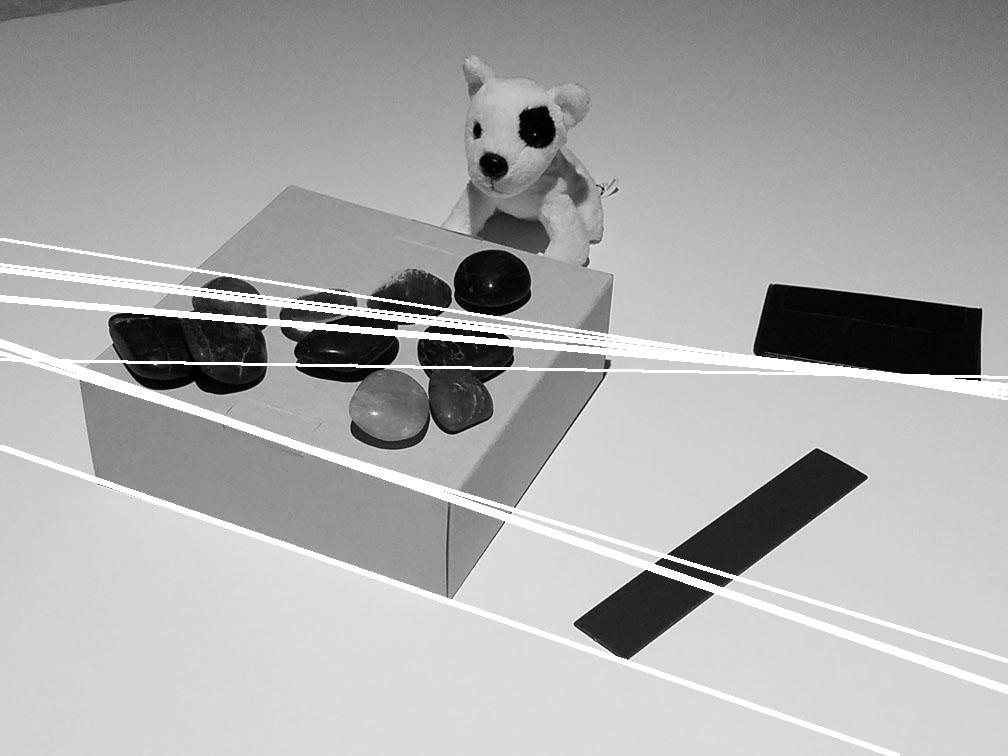
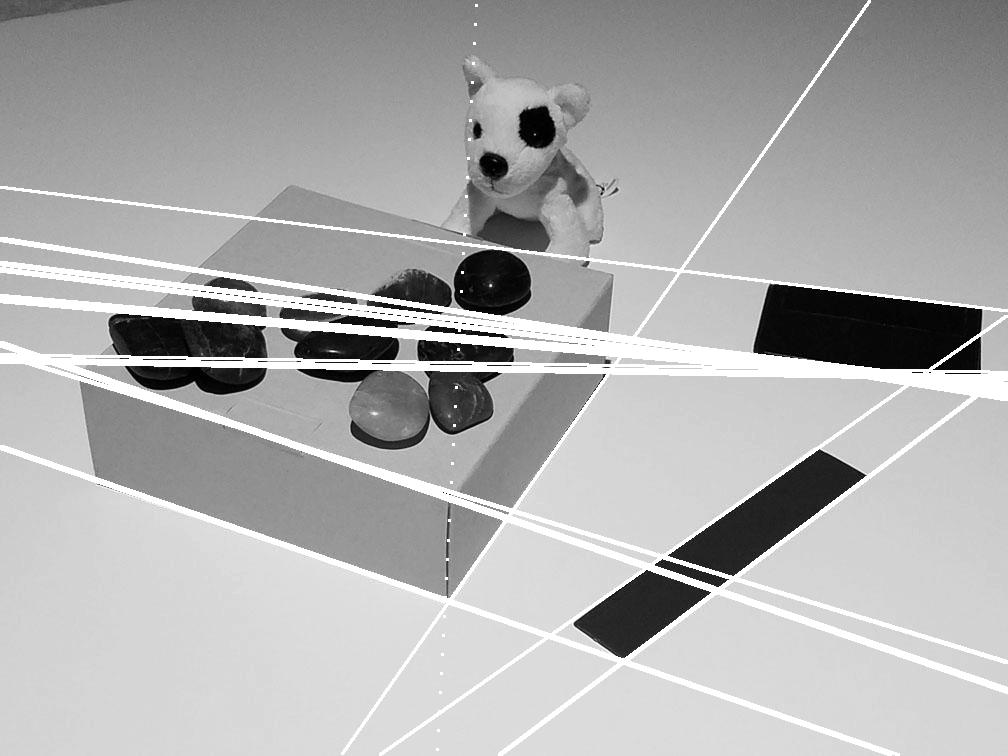
update

diff --git a/src/ImageProcessor.java b/src/ImageProcessor.java
@@ -10,13 +10,28 @@ import java.util.List;
  * project: ParallelogramDetection
  *
  * @author YubaiTao on 29/10/2017.
+ *
+ *
  */
 public class ImageProcessor {
+    /* ---- Fields ---- */
+
     private String id;
     private int[][] image;
     private int[][] grayImage;
     private int width;
     private int height;
+
+    /* for non-maximum suppression */
+    private int[][] matrixGx;
+    private int[][] matrixGy;
+    // NOTICE:
+    //     This is calculated in x-y coordinate system
+    //     theta(gradient angle) = arctan(Gy / Gx)
+    // which x increasing "right"-direction; y increasing "down"-direction
+    private double[][] matrixGAngle;
+    private int[][] nmsImage;
+
     /* for hough transform */
     private int thetaStrides;
     private int pStrides;
@@ -25,11 +40,18 @@ public class ImageProcessor {
     private double cosArray[];
     private int[][] houghTable;
 
+    /* ----  Constructor ---- */
     public ImageProcessor(int[][] matrix, String id, int thetaStrides, int pStrides) {
         this.id = id;
         this.image = matrix;
         this.width = matrix[0].length;
         this.height = matrix.length;
+
+        this.matrixGx = new int[height][width];
+        this.matrixGy = new int[height][width];
+        this.matrixGAngle = new double[height][width];
+        this.nmsImage = new int[height][width];
+
         this.thetaStrides = thetaStrides;
         this.pStrides = pStrides;
         sinArray = new double[this.thetaStrides];
@@ -38,18 +60,20 @@ public class ImageProcessor {
         grayImage = image.clone();
     }
 
+    /* --------------------- public methods ----------------------- */
+
     public void Sobel() {
         int threshold = 30;
         /* sobel operators */
         int[][] sobelX = {
-                {-1, 0, 1},
-                {-2, 0, 2},
-                {-1, 0, 1}
+                {1, 0, -1},
+                {2, 0, -2},
+                {1, 0, -1}
         };
         int[][] sobelY = {
-                {-1, -2, -1},
+                {1, 2, 1},
                 {0, 0, 0},
-                {1, 2, 1}
+                {-1, -2, -1}
         };
 
         int[][] result = new int[height][width];
@@ -64,15 +88,28 @@ public class ImageProcessor {
                         image[i][j - 1] * sobelY[1][0] + image[i][j] * sobelY[1][1] + image[i][j + 1] * sobelY[1][2] +
                         image[i + 1][j - 1] * sobelY[2][0] + image[i][j + 1] * sobelY[2][1] + image[i + 1][j + 1] * sobelY[2][2];
 
+                matrixGx[i][j] = x;
+                matrixGy[i][j] = y;
+
                 int mag = (int) Math.sqrt(x * x + y * y);
                 result[i][j] = mag;
 
-//                if (result[i][j] < 0) {
+                if (result[i][j] > 255) {
+                    result[i][j] = 255;
+                }
+                // swap white and black
+                result[i][j] = 255 - result[i][j];
+
+                if (result[i][j] > 255 - threshold) {
+                    result[i][j] = 255;
+                }
+
+                /*
                 if (result[i][j] < threshold) {
                     result[i][j] = 255;
                 } else {
                     result[i][j] = 0;
-                }
+                } */
 
             }
         }
@@ -92,6 +129,36 @@ public class ImageProcessor {
         drawImage(result, output);
 
         image = result.clone();
+        nmsImage = result.clone();
+    }
+
+    /* non-maximum suppression implementation */
+    public void NMS() {
+        // int[][] matrixSector = new int[height][width];
+        // nmsImage = image.clone();
+
+        for (int i = 0; i < height; i++) {
+            for (int j = 0; j < width; j++) {
+                if (image[i][j] != 255) {
+                    // atan2(double y, double x)
+                    // y - the ordinate coordinate ("up" direction)
+                    // x - the abscissa coordinate ("right" direction)
+                    // so y need to convert the sign
+                    // return value is radian form, [-pi, pi]
+                    matrixGAngle[i][j] = Math.atan2(-matrixGy[i][j], matrixGx[i][j]);
+                    int secNum = matchSector(matrixGAngle[i][j]);
+                    if (!isValidEdge(secNum, i, j)) {
+                        nmsImage[i][j] = 255;
+                    }
+                }
+            }
+        }
+
+        image = nmsImage.clone();
+
+        String output = "./OutputImages/" + id + "_nms.jpg";
+        drawImage(nmsImage, output);
+
     }
 
 
@@ -100,9 +167,67 @@ public class ImageProcessor {
         List<Line> lineList = extractLines();
         drawLines(lineList, grayImage, "./OutputImages/" + id +"_Lines.jpg");
 
-        System.out.println("Yahoooooo!");
+        System.out.println("Hough Transform end for " + id + ".");
     }
 
+
+
+
+
+    /* --------------------- private methods ----------------------- */
+
+    /* ---- For NMS() ---- */
+    private int matchSector(double angle) {
+        // angle - > [-PI, PI]
+        int sectorNum = -1;
+        if (angle < 0) {
+            // cast to [0, 2*PI]
+            angle += 2*Math.PI;
+        }
+        int div = (int)(angle / (Math.PI / 8));
+        switch (div) {
+            case 0: case 7:
+            case 8: case 15: case 16:
+                sectorNum = 0;
+                break;
+            case 1: case 2:
+            case 9: case 10:
+                sectorNum = 1;
+                break;
+            case 3: case 4:
+            case 11: case 12:
+                sectorNum = 2;
+                break;
+            case 5: case 6:
+            case 13: case 14:
+                sectorNum = 3;
+                break;
+            default:
+                break;
+        }
+
+        return sectorNum;
+    }
+
+    /* judge whether a point should be suppressed */
+    private boolean isValidEdge(int secNum, int i, int j) {
+        // System.out.println("sec num in valid edge: " + secNum);
+        switch (secNum) {
+            case 0:
+                return (image[i][j] <= image[i][j - 1] && image[i][j] <= image[i][j + 1]);
+            case 1:
+                return (image[i][j] <= image[i + 1][j - 1] && image[i][j] <= image[i - 1][j + 1]);
+            case 2:
+                return (image[i][j] <= image[i - 1][j] && image[i][j] <= image[i + 1][j]);
+            case 3:
+                return (image[i][j] <= image[i - 1][j - 1] && image[i][j] <= image[i + 1][j + 1]);
+            case 4:
+                return true;
+        }
+        return false;
+    }
+
+    /* ---- For houghTransform ---- */
 
     /*
         i-j coordinate system.
@@ -121,8 +246,6 @@ public class ImageProcessor {
             sinArray[i] = Math.sin(curTheta);
             cosArray[i] = Math.cos(curTheta);
         }
-
-
 
 
         int pointCount = 0;
@@ -157,7 +280,7 @@ public class ImageProcessor {
 
 
     private List<Line> extractLines() {
-        int k = 20;
+        int k = 30;
         int accumulatorThreshold = 0;
         int maxValue = 0;
 
@@ -200,16 +323,21 @@ public class ImageProcessor {
         }
 
         for (Line l : lineList) {
-            System.out.print(" ****** " + l.pIndex + " " + l.thetaIndex);
+            // System.out.print(" ****** " + l.pIndex + " " + l.thetaIndex);
         }
-        System.out.println();
+        // System.out.println();
 
         return lineList;
     }
 
+
+
+    /* ---- draw functions ---- */
+
+
     private void drawLines(List<Line> lineList, int[][] m, String path) {
 
-        System.out.println("Line list length : " + lineList.size());
+        // System.out.println("Line list length : " + lineList.size());
         for (Line l : lineList) {
             drawLine(l, m);
         }
@@ -227,8 +355,8 @@ public class ImageProcessor {
         double p = pStride / 2 + pIndex * pStride;
         double theta = thetaStride / 2 + thetaIndex * thetaStride;
 
-        System.out.println("Theta : " + theta);
-        System.out.println("P : " + p);
+//        System.out.println("Theta : " + theta);
+//        System.out.println("P : " + p);
 
         /*
             p = i * cos(theta) + j * sin(theta)
@@ -284,6 +412,9 @@ public class ImageProcessor {
     }
 
 }
+
+
+/* ---- utility class ---- */
 
 class Line {
     public int pIndex;

diff --git a/src/ParallelogramDetection.java b/src/ParallelogramDetection.java
@@ -21,22 +21,25 @@
 public class ParallelogramDetection {
     public static void main(String[] args) {
         ImageLoader imgLoader = new ImageLoader("./TestImages/TestImage1c.jpg");
-        ImageProcessor imgProcessor = new ImageProcessor(imgLoader.getMatrix(), imgLoader.ID, 180, 1000);
+        ImageProcessor imgProcessor = new ImageProcessor(imgLoader.getMatrix(), imgLoader.ID, 60, 1000);
         imgProcessor.Sobel();
+        imgProcessor.NMS();
         imgProcessor.houghTransform();
 
 
-        /*
+
         ImageLoader imgLoader_2 = new ImageLoader("./TestImages/TestImage2c.jpg");
         ImageProcessor imgProcessor_2 = new ImageProcessor(imgLoader_2.getMatrix(), imgLoader_2.ID, 180, 1000);
         imgProcessor_2.Sobel();
+        imgProcessor_2.NMS();
         imgProcessor_2.houghTransform();
 
         ImageLoader imgLoader_3 = new ImageLoader("./TestImages/TestImage3.jpg");
         ImageProcessor imgProcessor_3 = new ImageProcessor(imgLoader_3.getMatrix(), imgLoader_3.ID, 180, 1000);
         imgProcessor_3.Sobel();
+        imgProcessor_3.NMS();
         imgProcessor_3.houghTransform();
-        */
+
 
     }
 }
